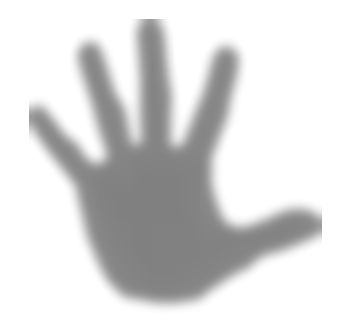
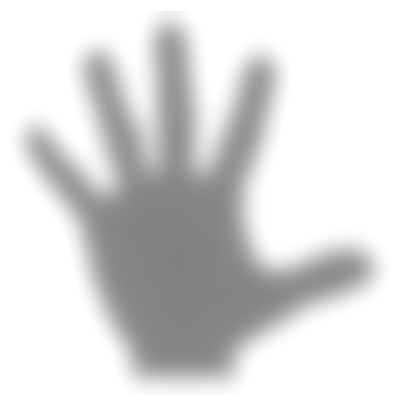
add left hand

diff --git a/app.js b/app.js
@@ -12,10 +12,10 @@
       var INTERVAL = 33;
       var COLOR_INTERVAL = 1000 * 60 * 20;
       var HAND_ON = 1000 * 5;
-      var HAND_INTERVAL_BASE = 1000 * 10;
-      var HAND_INTERVAL_FLEX = 1000 * 10;
-      var HAND_HORIZONTAL = 730;
-      var HAND_VERTICAL = 1570;
+      var HAND_INTERVAL_BASE = 1000 * 20;
+      var HAND_INTERVAL_FLEX = 1000 * 20;
+      var HAND_HORIZONTAL = 1080 - 400;
+      var HAND_VERTICAL = 1920 - 400;
       var RIGHT = 950;
       var BOTTOM = 620;
       var WIDTH = 400;
@@ -28,6 +28,7 @@
       var frameEl = document.getElementById('my_frame');
       var svgEl = document.getElementById('my_svg');
       var rightHandEl = document.getElementById('right_hand');
+      var leftHandEl = document.getElementById('left_hand');
       var grid = new thr0w.FlexGrid(
         frameEl,
         document.getElementById('my_content'), [
@@ -64,6 +65,9 @@
         receive
       );
       if (TOUCH_SCREENS.indexOf(thr0w.getChannel()) !== -1) {
+        leftHandEl.style.opacity = 0;
+        rightHandEl.style.opacity = 0;
+        leftHandEl.style.display = 'block';
         rightHandEl.style.display = 'block';
         loopHand();
       }
@@ -92,17 +96,18 @@
         }
       }
       function loopHand() {
+        var handEl = Math.random() > 0.5 ? leftHandEl : rightHandEl;
         var interval = HAND_INTERVAL_BASE + Math.floor(Math.random() *
           HAND_INTERVAL_FLEX);
-        rightHandEl.style.left = Math.floor(Math.random() *
+        handEl.style.left = Math.floor(Math.random() *
           HAND_HORIZONTAL) + 'px';
-        rightHandEl.style.top = Math.floor(Math.random() *
+        handEl.style.top = Math.floor(Math.random() *
           HAND_VERTICAL) + 'px';
-        rightHandEl.style.opacity = 1;
+        handEl.style.opacity = 1;
         window.setTimeout(hideHand, HAND_ON);
         window.setTimeout(loopHand, interval);
         function hideHand() {
-          rightHandEl.style.opacity = 0;
+          handEl.style.opacity = 0;
         }
       }
       function interact(e) {

diff --git a/app.css b/app.css
@@ -18,14 +18,19 @@ html, body {
   height: 100%;
 }
 #right_hand {
+  background-image: url("right_hand.png");
+}
+#left_hand {
+  background-image: url("left_hand.png");
+}
+.hand {
   display: none;
   position: absolute;
   z-index: 1;
-  width: 350px;
-  height: 350px;
+  width: 400px;
+  height: 400px;
   left: 0px;
   top: 0px;
-  background-image: url("right_hand.png");
   background-size: cover;
   transition: opacity 2s;
 }

diff --git a/index.html b/index.html
@@ -2099,7 +2099,8 @@ class="my_svg__fg"
   </g>
 </svg>
     </div>
-    <div id="right_hand"></div>
+    <div id="right_hand" class="hand"></div>
+    <div id="left_hand" class="hand"></div>
   </div>
 <!-- DEV / PROD
   <script src="http://localhost:3001/socket.io/socket.io.js"></script>
